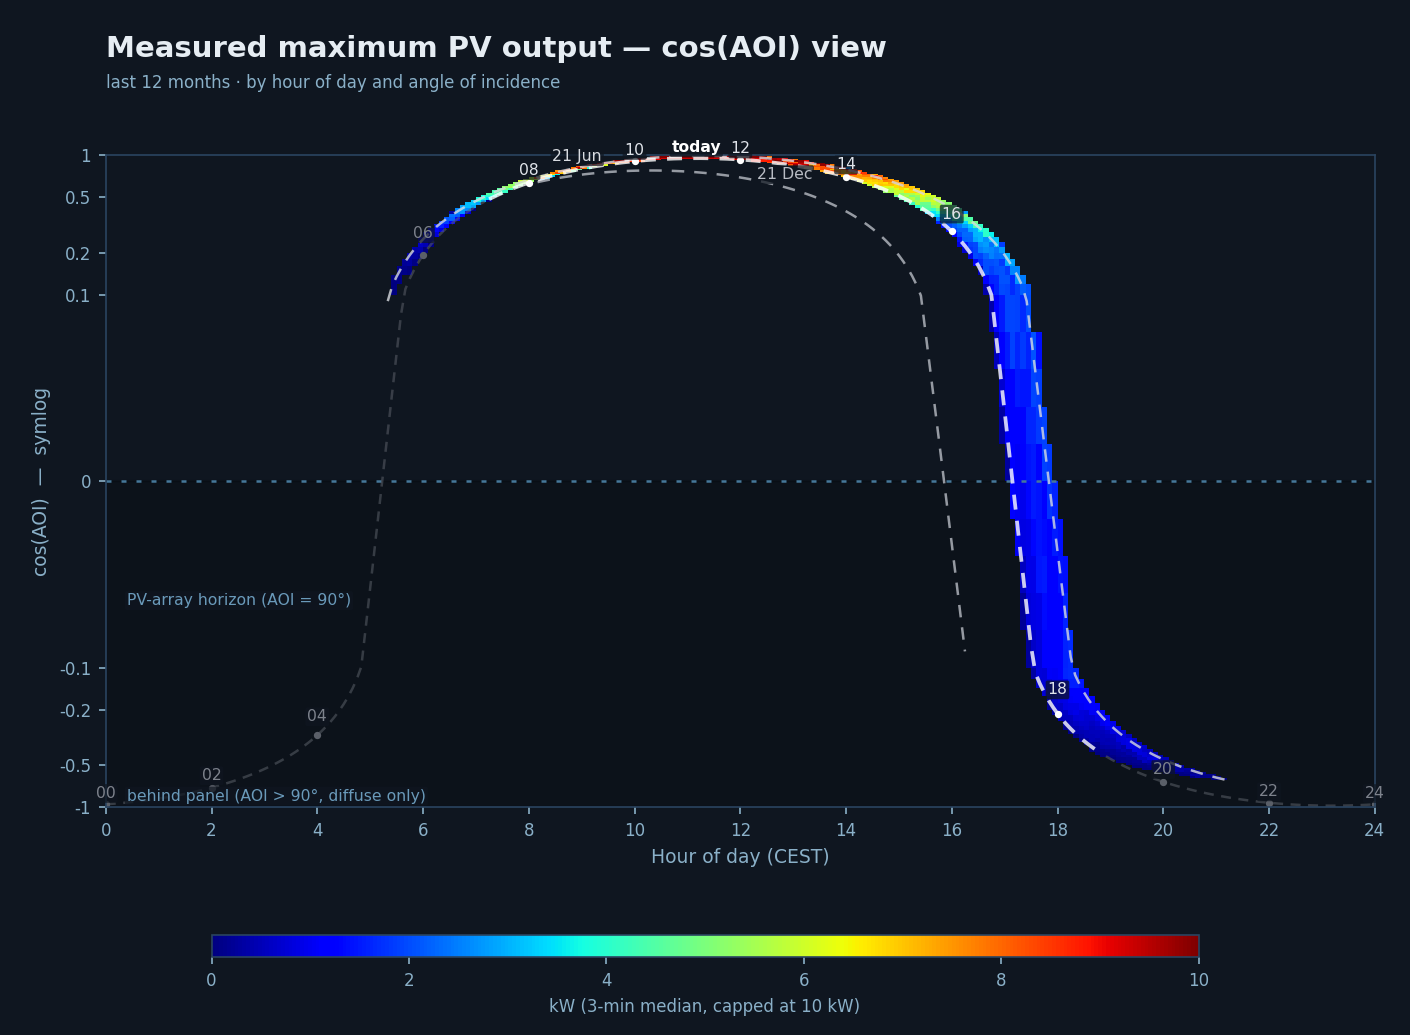
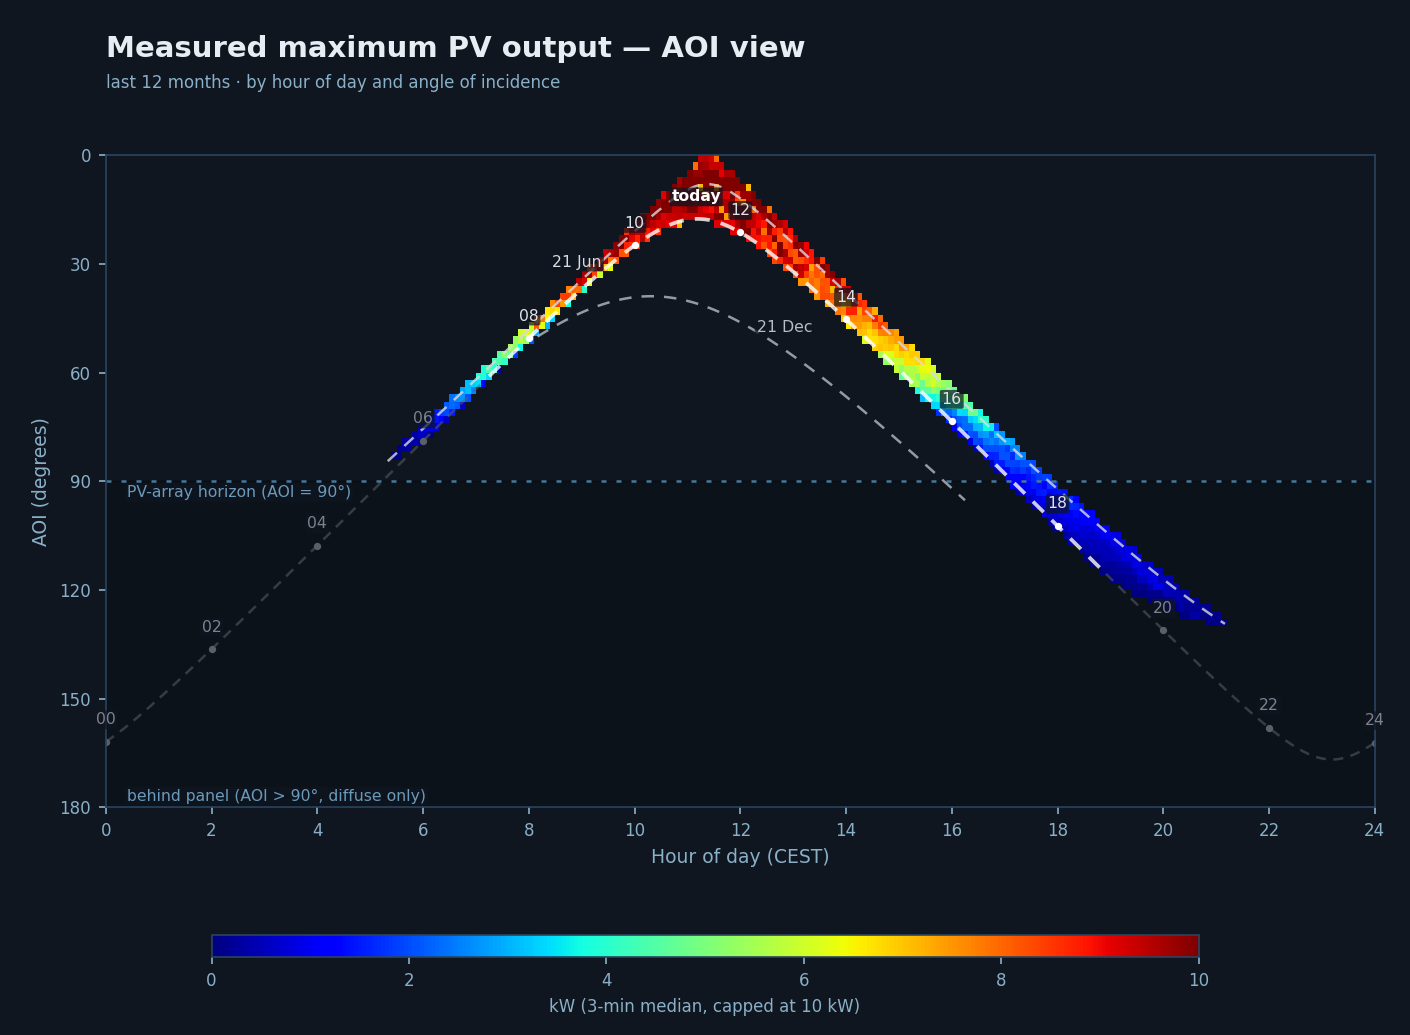
Switch the cos(AOI) view to plain AOI in degrees
cos(AOI) squashes small angles near boresight into almost no y-range
and over-weights the region near 90 deg -- unintuitive on its own, and
the symlog fix for that traded one distortion for another (the midday
plateau got squashed instead). Plain AOI in degrees (0=boresight at
top, 180=directly behind at bottom) needs no transform at all: equal
angle gets equal space everywhere, including right at the AOI=90
crossing, and it reads as an actual angle rather than an abstract
cosine value.

measured_heatmap_cart() now bins by (hour, AOI degrees) instead of
(hour, cos AOI) -- a real rebin in degree-space, not just a relabelled
cos axis, so the crossing region gets genuine equal-angle treatment
rather than inheriting cos's distortion under new tick labels.

Button relabelled "AOI" (was "cos AOI"); file names unchanged.

diff --git a/web/template.html b/web/template.html
@@ -398,7 +398,7 @@
   <div class="pv-view-bar">
     <span class="ctl-label" data-i18n="pv_view_label">View</span>
     <button class="view-btn active" data-view="polar" data-i18n="pv_view_polar">Polar</button>
-    <button class="view-btn" data-view="cart" data-i18n="pv_view_cart">cos AOI</button>
+    <button class="view-btn" data-view="cart" data-i18n="pv_view_cart">AOI</button>
   </div>
   <div class="pv-heat">
     <img id="pv-heat-img" src="pv_heatmap_all.png" alt="Measured maximum PV output by sun azimuth and elevation">
@@ -559,7 +559,7 @@
       site_title: "81827 Waldtrudering Energy Dashboard",
       meter_through: "Meter through", weather_through: "Weather through", built_at: "Built",
       nav_energy: "Energy", nav_weather: "Weather", nav_pv: "PV Output",
-      pv_view_label: "View", pv_view_polar: "Polar", pv_view_cart: "cos AOI",
+      pv_view_label: "View", pv_view_polar: "Polar", pv_view_cart: "AOI",
       records_record_current: "record (current)",
       records_legend_parameter: "Parameter", records_legend_streak: "streak", records_legend_annual: "annual",
       records_tag_min: "min", records_tag_curr: "curr", records_tag_max: "max",
@@ -603,7 +603,7 @@
       site_title: "81827 Waldtrudering Energie-Dashboard",
       meter_through: "Zähler bis", weather_through: "Wetter bis", built_at: "Erstellt",
       nav_energy: "Energie", nav_weather: "Wetter", nav_pv: "PV-Leistung",
-      pv_view_label: "Ansicht", pv_view_polar: "Polar", pv_view_cart: "cos AOI",
+      pv_view_label: "Ansicht", pv_view_polar: "Polar", pv_view_cart: "AOI",
       records_record_current: "Rekord (aktuell)",
       records_legend_parameter: "Parameter", records_legend_streak: "Serie", records_legend_annual: "jährlich",
       records_tag_min: "min", records_tag_curr: "akt", records_tag_max: "max",
@@ -647,7 +647,7 @@
       site_title: "81827 Waldtrudering Dashboard Energetico",
       meter_through: "Contatori al", weather_through: "Meteo al", built_at: "Creato",
       nav_energy: "Energia", nav_weather: "Meteo", nav_pv: "Produzione FV",
-      pv_view_label: "Vista", pv_view_polar: "Polare", pv_view_cart: "cos AOI",
+      pv_view_label: "Vista", pv_view_polar: "Polare", pv_view_cart: "AOI",
       records_record_current: "record (attuale)",
       records_legend_parameter: "Parametro", records_legend_streak: "serie", records_legend_annual: "annuale",
       records_tag_min: "min", records_tag_curr: "att", records_tag_max: "max",
